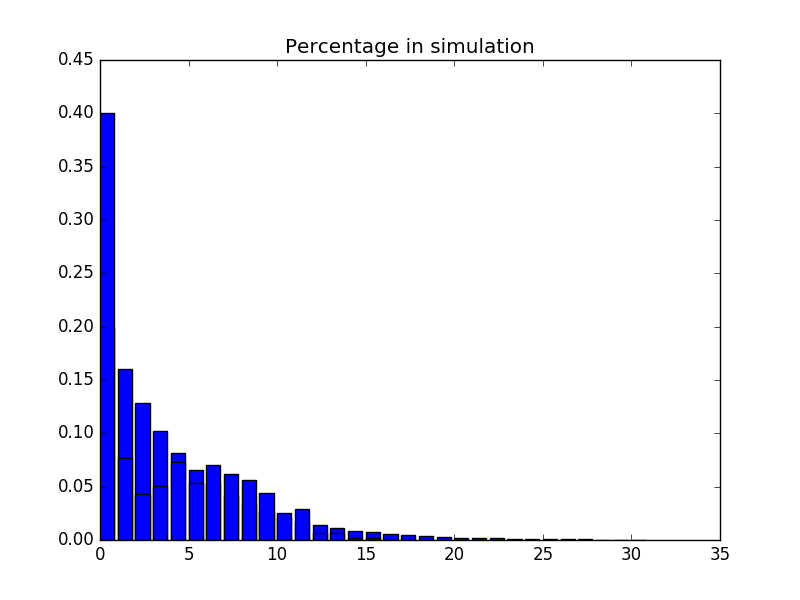
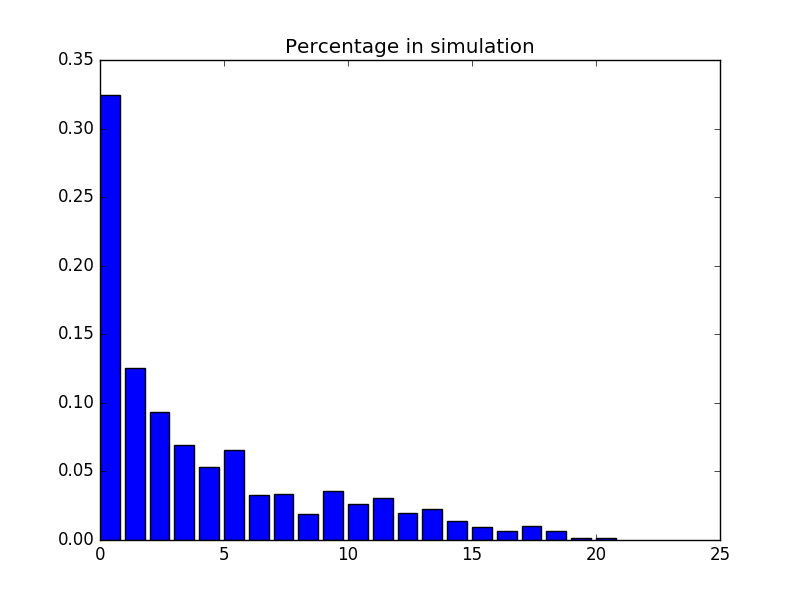
timeEachPerson update

Changed region(s): [[0.0625, 0.15, 0.7812, 0.93], [0.7812, 0.9, 0.8125, 0.93], [0.0938, 0.09, 0.125, 0.12]]

diff --git a/hw3/server.py b/hw3/server.py
@@ -7,15 +7,17 @@ class Server:
         self.queue = waitingQueue.WaitingQueue(startTime)
         self.servingNum = 0
         self.servingTime = 0.0
+        self.busy = 0
     def start(self, servingNum):
         while 1:
             if self.servingNum==servingNum :
                 break
             if(self.queue.getListLen()!=0):
                 servingCustomer=self.queue.pop()
+                self.busy = 1
                 self.servingNum += 1
-                # print ("Start serving No.%d with %f sec" %(self.servingNum,servingCustomer.processTime))
                 time.sleep(servingCustomer.processTime)
+                self.busy = 0
                 self.servingTime += servingCustomer.processTime
 
 

diff --git a/hw3/main.py b/hw3/main.py
@@ -28,10 +28,10 @@ lastTime = time.time()
 for clientTime in clientCreateTime :
     while (time.time()-lastTime)<clientTime:
         continue
-    if server.queue.getListLen() in timeEachPerson:
-        timeEachPerson[server.queue.getListLen()]+=clientTime
+    if server.queue.getListLen()+server.busy in timeEachPerson:
+        timeEachPerson[server.queue.getListLen()+server.busy]+=clientTime
     else :
-        timeEachPerson[server.queue.getListLen()] = clientTime
+        timeEachPerson[server.queue.getListLen()+server.busy] = clientTime
     newCustomer = customer.Customer()
     server.queue.push(newCustomer)
     lastTime = time.time()
